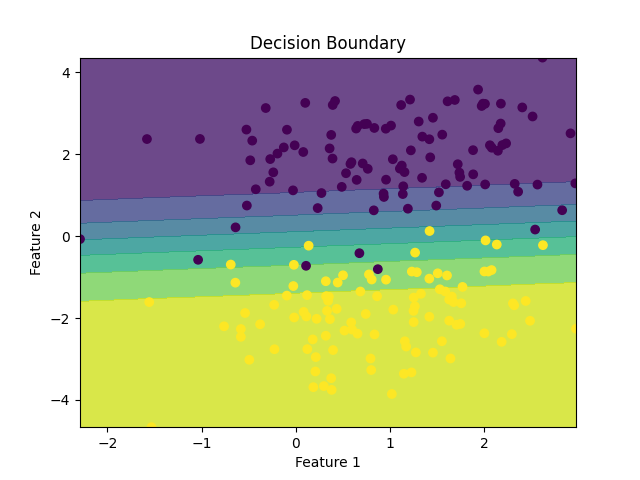
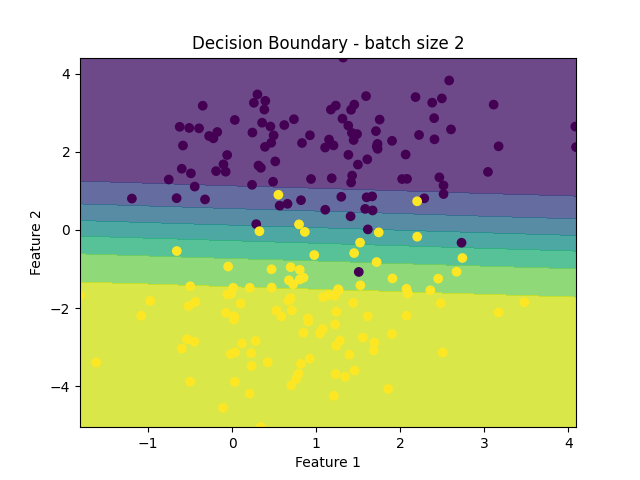
editing figures

diff --git a/03_logistic_regression.py b/03_logistic_regression.py
@@ -36,7 +36,7 @@ plt.show()
 # Split data
 indices = np.arange(X.shape[0])
 np.random.shuffle(indices)
-batch_size=8
+batch_size=1
 test_set_size = int(len(X) * TEST_SIZE)
 test_indices = indices[:test_set_size]
 train_indices = indices[test_set_size:]
@@ -152,7 +152,7 @@ plt.contourf(xx, yy, Z, alpha=0.8)
 plt.scatter(X[:, 0], X[:, 1], c=y)
 plt.xlabel('Feature 1')
 plt.ylabel('Feature 2')
-plt.title('Decision Boundary')
+plt.title(f'Decision Boundary - batch size {batch_size}')
 plt.savefig(f'run using batch {batch_size}')
 plt.show()
 
